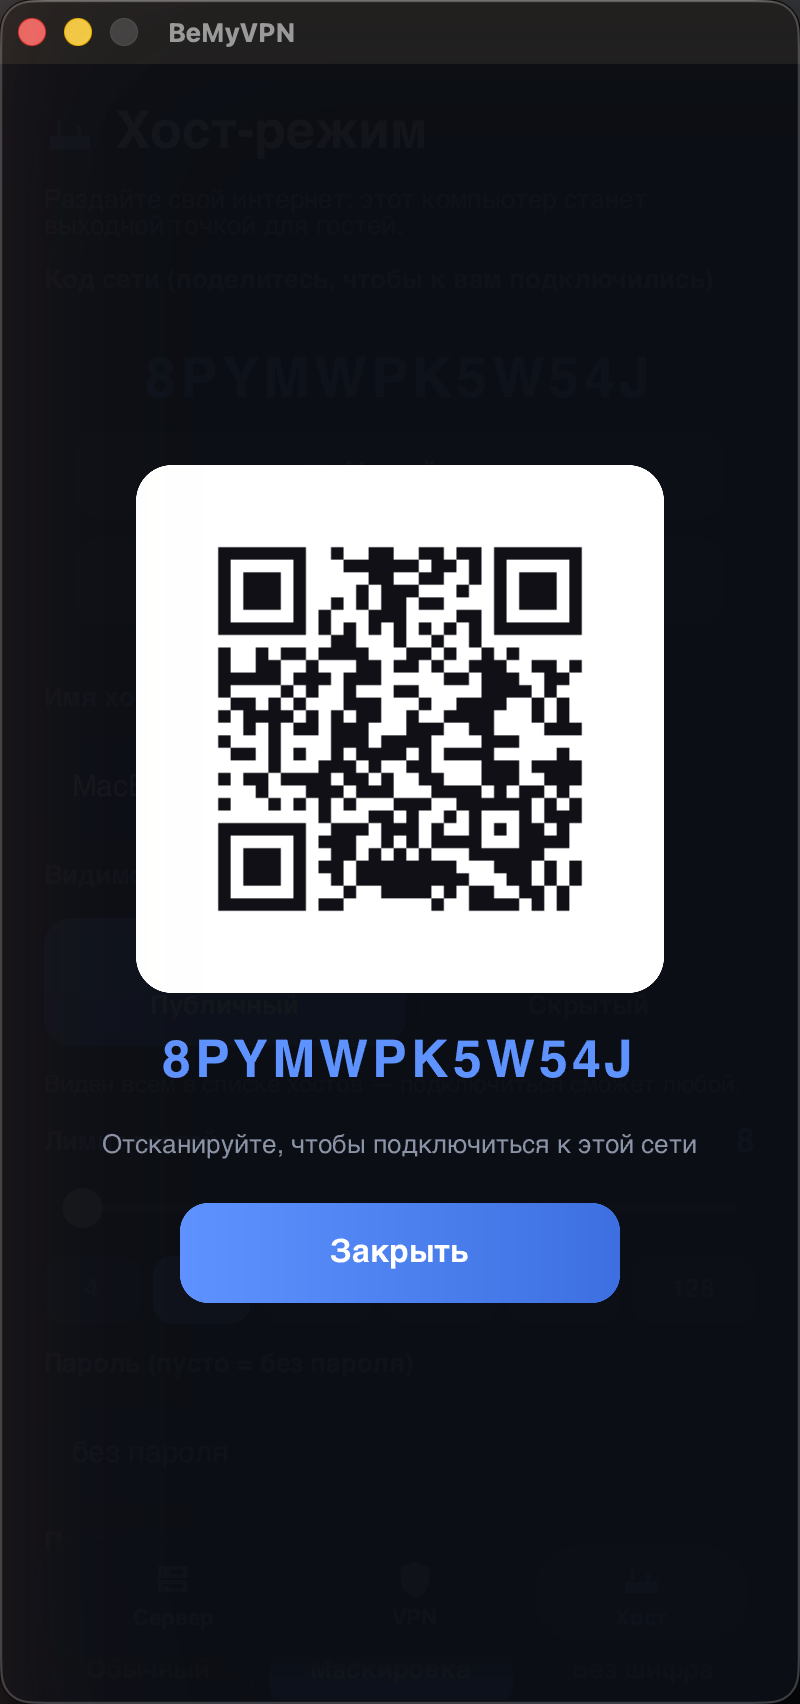
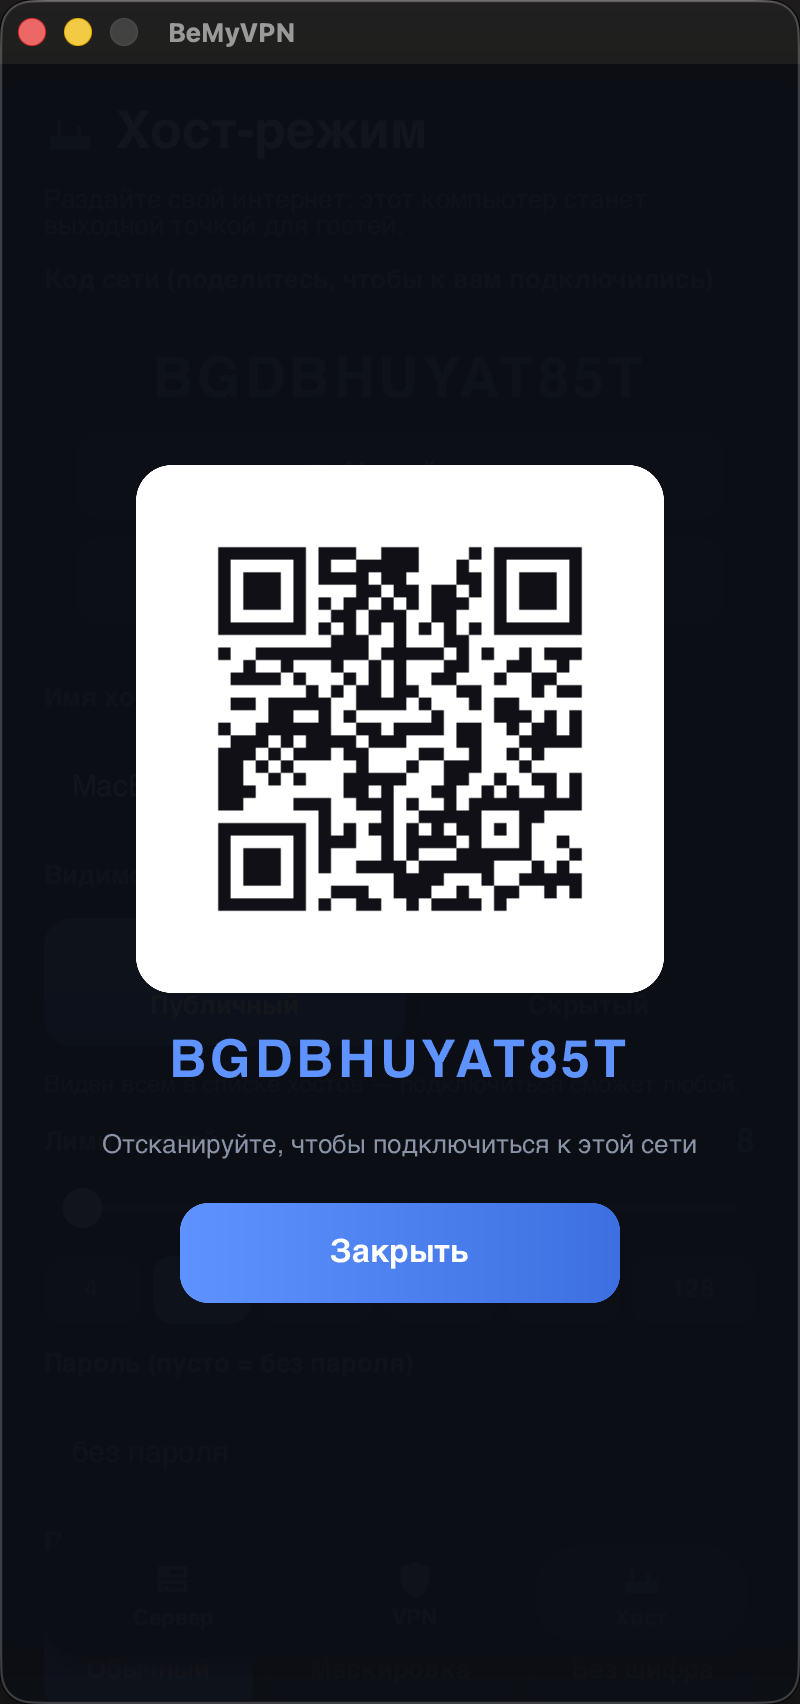
QR крупнее и той же ссылкой, что на телефонах; в документации меню — главный путь
QR. Десктоп кодировал ДЛИННУЮ ссылку `bemyvpn://connect?code=…` (35 символов),
а Android и iOS — короткую `bemyvpn://КОД` (22). Обе формы приложения парсят,
но длинная даёт заметно более плотную матрицу: мелкие модули, хуже сканируется.
Перешли на короткую (и в терминальном QR тоже). Плюс поле было 4 модуля ПОВЕРХ
16px отступа белой карточки — двойная рамка; на Android поле вообще 0, роль
тихой зоны играет карточка. Стало 2 модуля, картинка 232→244px: код крупнее,
белых полей меньше.

Документация. Инструкции вели через аргументы командной строки, хотя обычный
путь — открыть меню и нажать кнопку. Теперь наоборот: сначала `sudo ./bemyvpn`
→ вкладка → кнопка, а флаги вынесены в сворачиваемый блок «то же без меню — для
скриптов» с таблицей возможностей. Так же переставлен раздел координатора.
Заодно убраны отметки «⏳ скоро в релизах» у файлов, которые давно выпущены.

Changed region(s): [[0.25, 0.311, 0.75, 0.5599], [0.1875, 0.591, 0.7812, 0.6532], [0.0, 0.0, 0.0312, 0.0311]]

diff --git a/apps/bmv-gui/src/main.rs b/apps/bmv-gui/src/main.rs
@@ -130,7 +130,7 @@ fn main() -> Result<(), Box<dyn std::error::Error>> {
         let weak = ui.as_weak();
         ui.on_show_qr(move |code| {
             if let Some(ui) = weak.upgrade() {
-                if let Some(img) = qr_image(&format!("bemyvpn://connect?code={code}")) {
+                if let Some(img) = qr_image(&format!("bemyvpn://{code}")) {
                     ui.set_qr_overlay_img(img);
                 }
                 ui.set_qr_overlay(code);
@@ -865,7 +865,10 @@ fn qr_image(text: &str) -> Option<slint::Image> {
     let code = qrcode::QrCode::new(text.as_bytes()).ok()?;
     let colors = code.to_colors();
     let w = code.width();
-    let (quiet, scale) = (4usize, 8usize);
+    // Поле — 2 модуля, а не 4: белая карточка под картинкой даёт свой отступ,
+    // и вместе с запечённым получалась двойная рамка (на Android поле вообще 0,
+    // роль тихой зоны играет карточка). Меньше поле — крупнее сам код.
+    let (quiet, scale) = (2usize, 8usize);
     let dim = (w + quiet * 2) * scale;
     let mut buf = slint::SharedPixelBuffer::<slint::Rgba8Pixel>::new(dim as u32, dim as u32);
     let px = buf.make_mut_slice();

diff --git a/apps/bmv-cli/src/tui.rs b/apps/bmv-cli/src/tui.rs
@@ -1318,7 +1318,7 @@ fn host_tab(f: &mut Frame, area: Rect, a: &App) {
 
     // QR по коду, если включён показ — на весь экран.
     if a.show_qr && !code.is_empty() {
-        let lines = qr_lines(&format!("bemyvpn://connect?code={code}"));
+        let lines = qr_lines(&format!("bemyvpn://{code}"));
         let text: Vec<Line> = std::iter::once(Line::from(Span::styled(format!("🔑 {code}"), Style::default().fg(ACCENT).add_modifier(Modifier::BOLD))))
             .chain(lines.into_iter().map(Line::from))
             .chain(std::iter::once(Line::from(Span::styled("Shift+Q — скрыть", Style::default().fg(DIM)))))
@@ -1580,6 +1580,6 @@ mod tests {
         assert_eq!(uptime(Instant::now()), "0 сек");
         assert_eq!(proto_short("noise-obfs"), "🎭 Маскировка");
         assert_eq!(proto_short(""), "🔐 Обычный");
-        assert!(!qr_lines("bemyvpn://connect?code=ABCD1234").is_empty());
+        assert!(!qr_lines("bemyvpn://ABCD1234").is_empty());
     }
 }

diff --git a/README.md b/README.md
@@ -87,48 +87,50 @@
 
 ## 🖥 Хочу помочь: хост на сервере (24/7)
 
-Есть VPS или сервер? Преврати его в точку выхода **одной командой** (root не нужен):
+Есть VPS или сервер? Скачай один файл и открой меню:
 
 ```bash
-curl -LO https://github.com/mister-PARADISE/bemyvpn/releases/latest/download/bemyvpn-linux-x86_64-terminal && chmod +x bemyvpn-linux-x86_64-terminal && ./bemyvpn-linux-x86_64-terminal host --tunnel
+curl -LO https://github.com/mister-PARADISE/bemyvpn/releases/latest/download/bemyvpn-linux-x86_64-terminal
+chmod +x bemyvpn-linux-x86_64-terminal
+sudo ./bemyvpn-linux-x86_64-terminal
 ```
 
-Всё — ты в каталоге, к тебе могут подключаться. 🎉
+Вкладка **📡 Хост** → **«Стать хостом»**. Всё — ты в каталоге, к тебе могут
+подключаться. 🎉
 
-> ⚠ Так раздача живёт, **пока открыт терминал**: закроешь SSH или перезагрузишь
-> сервер — она погаснет. Чтобы работала всегда, см. следующий пункт (нужен root).
+Раздача **переживёт выход из меню, обрыв SSH и перезагрузку**: приложение само
+заводит службу systemd. Той же кнопкой выключается, она же показывает состояние.
+Настраивать нечего — **имя** берётся от машины, **лимит гостей** подбирается по
+объёму памяти. Всё сохраняется само, конфиг руками писать не нужно.
 
-<details><summary>⚙ <b>Чтобы работал всегда — одна кнопка</b> — клик</summary>
+> ⚠ **`sudo` обязателен.** Служба ставится в `/etc/systemd/system/`, куда
+> обычному пользователю нельзя. Без root раздача будет жить только пока открыто
+> меню — перезагрузку не переживёт.
 
-Юниты systemd руками писать не нужно. Одной командой, без всякого меню:
+Проверить со стороны системы: `systemctl status bemyvpn-host`
+
+<details><summary>⌨ <b>То же самое без меню — для скриптов</b> — клик</summary>
+
+Если сервер настраивается автоматикой, меню не нужно:
 
 ```bash
 sudo ./bemyvpn-linux-x86_64-terminal host --tunnel --autostart
 ```
 
-Служба поставится, запустится и включится в автозагрузку — команда сразу вернёт
-управление. Годится для скриптов и первичной настройки сервера.
+Команда поставит службу, запустит её и сразу вернёт управление.
 
-Ничего больше указывать не нужно: **имя** берётся от машины (у всех разное, а не
-«Мой сервер» в десятке экземпляров), **лимит гостей** подбирается по числу ядер —
-слабой машине достанется скромное значение, мощному VPS большое. Захочешь иначе —
-`--name "…"`, `--max 32`, `--password …`, `--hidden`, или потом в меню.
+Что можно задать дополнительно (всё необязательно):
 
-Либо то же самое руками через меню:
+| Флаг | Зачем |
+|---|---|
+| `--name "…"` | своё имя в каталоге вместо имени машины |
+| `--max 32` | свой лимит гостей вместо подобранного |
+| `--password …` | пароль на вход; тогда сеть **всегда скрытая** |
+| `--hidden` | не показывать в общем списке (только по коду) |
+| `--proto noise\|obfs\|plain` | протокол вместо «Маскировки» |
 
-```bash
-sudo ./bemyvpn-linux-x86_64-terminal
-```
-
-Вкладка **📡 Хост** → **«Стать хостом»**. Раздача поднимется сразу и **переживёт
-выход из меню, обрыв SSH и перезагрузку сервера** — службу приложение заводит
-само. Выключается той же кнопкой, она же и показывает текущее состояние.
-
-**Именно `sudo` тут обязателен:** служба ставится в `/etc/systemd/system/`, куда
-обычному пользователю нельзя. Без root та же кнопка поднимет раздачу только на
-время, пока открыто меню — перезагрузку она не переживёт.
-
-Проверить со стороны системы: `systemctl status bemyvpn-host`
+Разово, без службы и без root — `./bemyvpn-linux-x86_64-terminal host --tunnel`:
+раздача живёт, пока открыт терминал.
 </details>
 
 <details><summary>🖥 <b>Полноэкранное меню в терминале</b> — клик</summary>
@@ -158,22 +160,30 @@ mkdir -p /opt/bemyvpn && cd /opt/bemyvpn
 curl -LO https://github.com/mister-PARADISE/bemyvpn/releases/latest/download/bemyvpn-linux-x86_64-terminal
 mv bemyvpn-linux-x86_64-terminal bemyvpn && chmod +x bemyvpn
 
-sudo ./bemyvpn server --domain твой.домен --autostart
+sudo ./bemyvpn
 ```
 
-Всё. Конфиг писать руками не нужно — команда сохранит настройки сама, поставит
-службу и включит её: координатор переживёт выход, обрыв SSH и перезагрузку.
-Сертификат Let's Encrypt получится и будет продлеваться сам, `certbot` и `nginx`
-не нужны. Почта для сертификата **не требуется**.
+Вкладка **🌐 Сервер** → вписать свой домен → **«Запустить свой сервер»**.
+
+Конфиг писать не нужно — настройки сохранятся сами, служба поставится, и
+координатор переживёт выход, обрыв SSH и перезагрузку. Сертификат Let's Encrypt
+выпустится и будет продлеваться сам: `certbot` и `nginx` не нужны, **почта тоже
+не требуется**.
 
 Проверка: `./bemyvpn --coordinator https://твой.домен ping` → «жив ✅».
 В приложениях друзей: вкладка **«Сервер»** → вписать `https://твой.домен`.
 
-<sub>Без домена — `sudo ./bemyvpn server --autostart`: HTTP на порту 3330, клиенты
-указывают `http://ВАШ_IP:3330`. То же самое можно сделать и в меню: вкладка
-**🌐 Сервер** → вписать домен → «Запустить свой сервер». Ручной `bemyvpn.toml`
-нужен, только если хочется своего сертификата вместо Let's Encrypt — см.
-[docs/RUNNING.md](docs/RUNNING.md).</sub>
+**Без меню, для скриптов:**
+
+```bash
+sudo ./bemyvpn server --domain твой.домен --autostart
+```
+
+Порт сам переключится на 443. Без домена — просто `sudo ./bemyvpn server
+--autostart`: HTTP на порту 3330, клиенты указывают `http://ВАШ_IP:3330`.
+
+<sub>Ручной `bemyvpn.toml` нужен, только если хочется своего сертификата вместо
+Let's Encrypt — см. [docs/RUNNING.md](docs/RUNNING.md).</sub>
 </details>
 
 ---

diff --git a/docs/RUNNING.md b/docs/RUNNING.md
@@ -52,9 +52,9 @@
 
 | Что | Файл | |
 |---|---|---|
-| 🐧 Linux (обычный сервер) | [bemyvpn-linux-x86_64-terminal](https://github.com/mister-PARADISE/bemyvpn/releases/latest/download/bemyvpn-linux-x86_64-terminal) | ⏳ скоро в релизах |
+| 🐧 Linux (обычный сервер) | [bemyvpn-linux-x86_64-terminal](https://github.com/mister-PARADISE/bemyvpn/releases/latest/download/bemyvpn-linux-x86_64-terminal) | ✅ |
 | 🍎 macOS | [bemyvpn-macos-arm64-terminal](https://github.com/mister-PARADISE/bemyvpn/releases/latest/download/bemyvpn-macos-arm64-terminal) | ✅ |
-| 🪟 Windows | [bemyvpn-windows-x86_64-terminal.exe](https://github.com/mister-PARADISE/bemyvpn/releases/latest/download/bemyvpn-windows-x86_64-terminal.exe) | ⏳ скоро |
+| 🪟 Windows | [bemyvpn-windows-x86_64-terminal.exe](https://github.com/mister-PARADISE/bemyvpn/releases/latest/download/bemyvpn-windows-x86_64-terminal.exe) | ✅ |
 
 Приложения с кнопками (Android/десктоп) — в [README](../README.md#-скачать).
 
@@ -62,29 +62,37 @@
 
 ## 📡 Хост — раздать интернет (без конфига)
 
-**Фоном навсегда — одна команда.** Юнит systemd писать руками не нужно:
+**Проще всего — через меню.** Запусти под root и нажми одну кнопку:
+
 ```bash
 chmod +x bemyvpn-linux-x86_64-terminal
-sudo ./bemyvpn-linux-x86_64-terminal host --tunnel --autostart
+sudo ./bemyvpn-linux-x86_64-terminal
 ```
-Служба поставится и включится: раздача переживёт выход, обрыв SSH и
-перезагрузку. Ничего указывать больше не надо — **имя** берётся от машины,
-**лимит гостей** подбирается по ОЗУ (512 МБ → 32, 1 ГБ → 64).
+
+Вкладка **📡 Хост** → **«Стать хостом»**. Служба заведётся сама: раздача
+переживёт выход, обрыв SSH и перезагрузку. Имя берётся от машины, лимит гостей
+подбирается по ОЗУ (512 МБ → 32, 1 ГБ → 64), всё сохраняется автоматически.
 
 ```bash
 systemctl status bemyvpn-host          # состояние
 systemctl disable --now bemyvpn-host   # выключить
 ```
 
+**Для скриптов — то же без меню:**
+
+```bash
+sudo ./bemyvpn-linux-x86_64-terminal host --tunnel --autostart
+```
+
+Необязательные флаги: `--name "…"` (своё имя), `--max 32` (свой лимит),
+`--password …` (**с паролем сеть всегда скрытая**), `--hidden` (не показывать в
+списке), `--proto noise|obfs|plain`.
+
 **Разово, пока открыт терминал** (root не нужен — хост работает в userspace):
 ```bash
 ./bemyvpn-linux-x86_64-terminal host --tunnel
 ```
 Закроется SSH — раздача погаснет.
-
-Флаги: `--name`, `--max` (4/8/16/32/64/128), `--password` (пусто = открытый),
-`--proto noise|obfs|plain`, `--hidden` (скрыть из списка). **Пароль делает сеть
-скрытой всегда** — публичной она быть не может.
 
 ---
 
